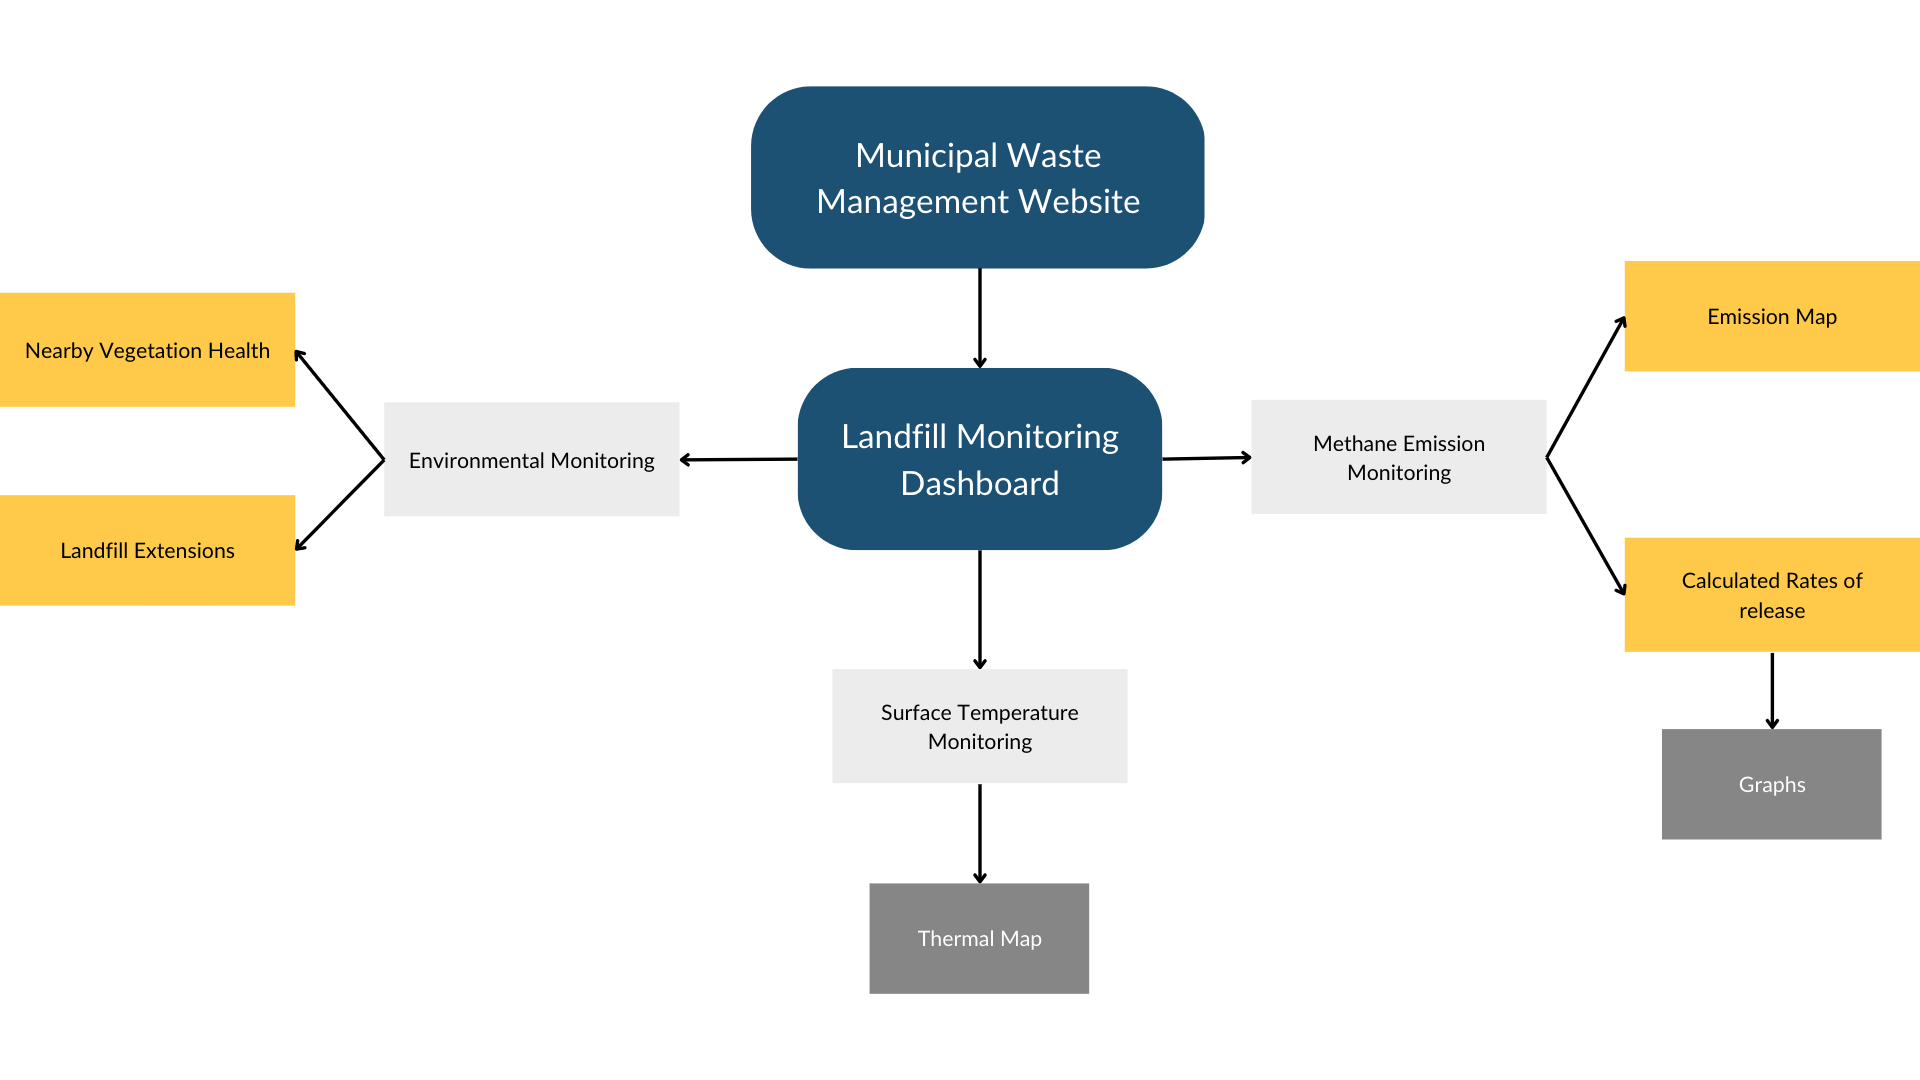
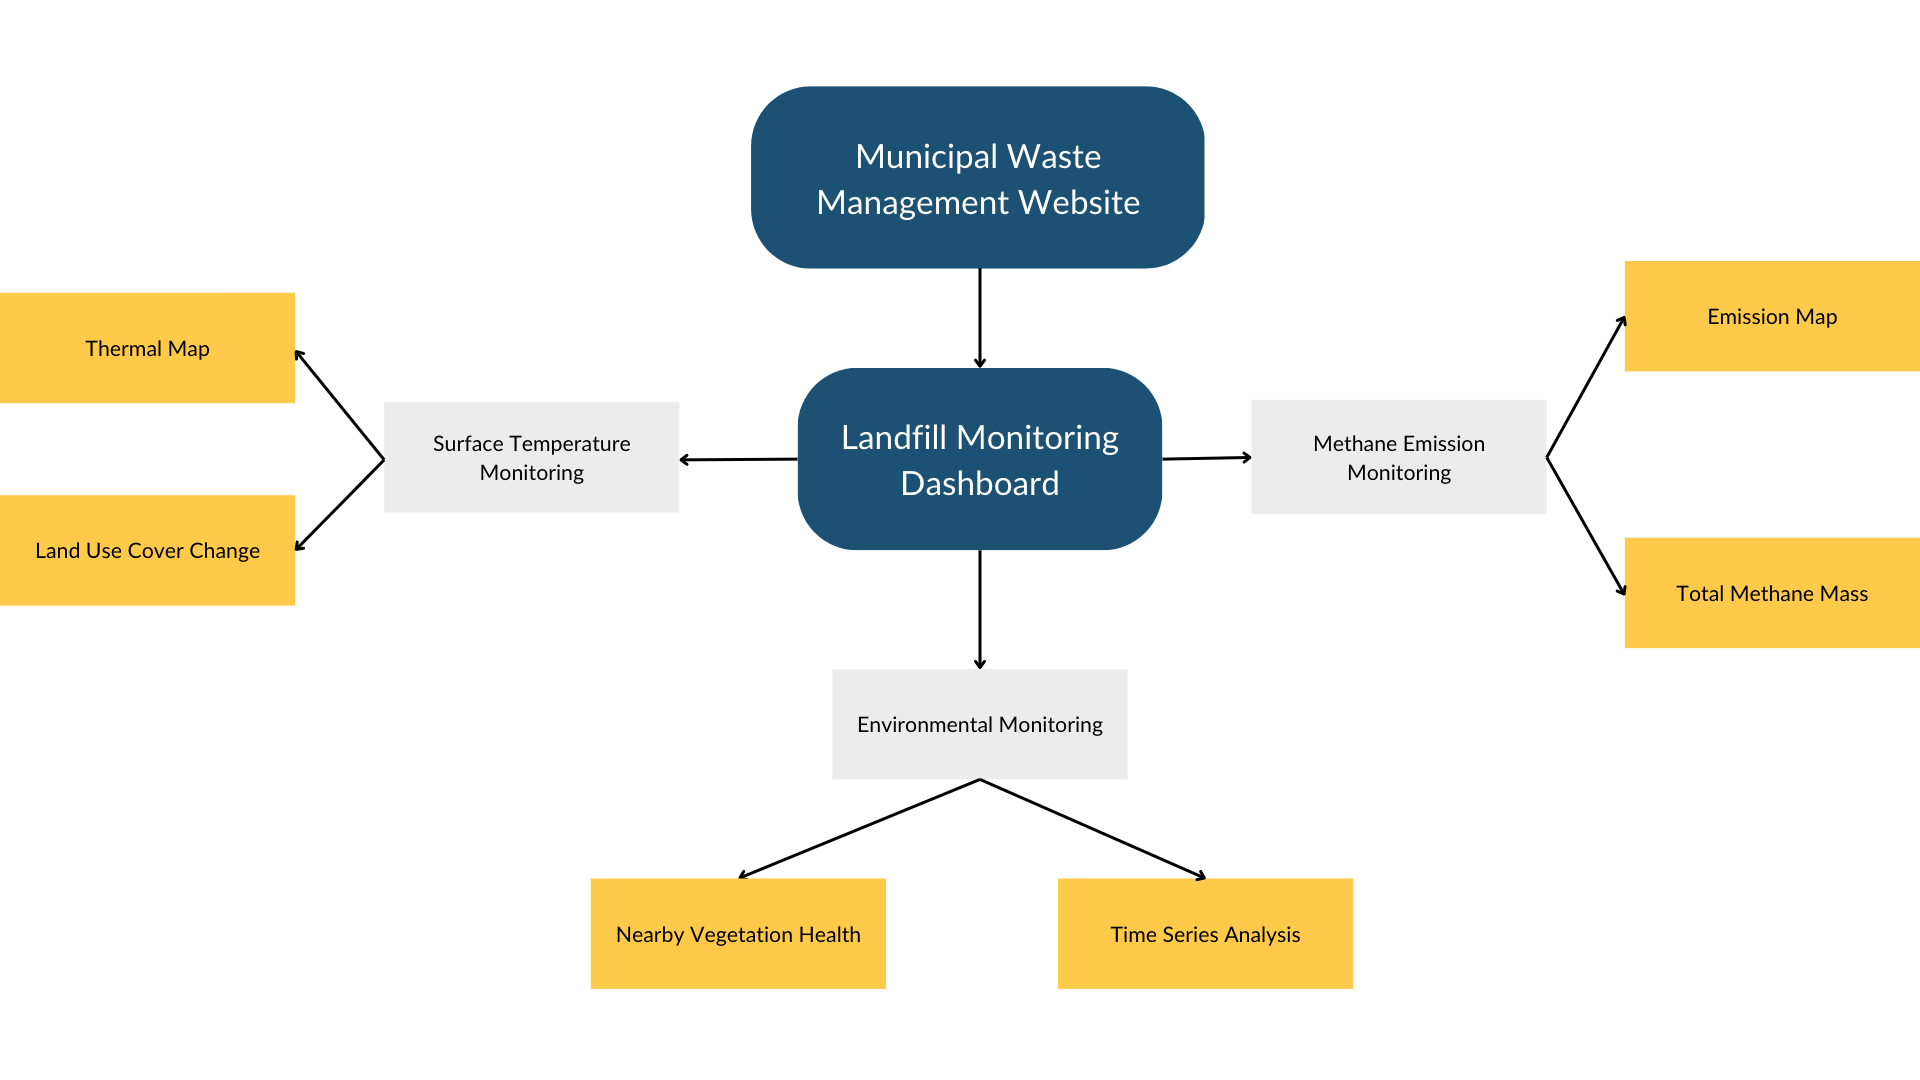
update

diff --git a/index.html b/index.html
@@ -46,19 +46,6 @@ class: center middle
 
 
 
-
-```
-## Warning: package 'countdown' was built under R version 4.2.2
-```
-
-```
-## Warning: package 'xaringanExtra' was built under R version 4.2.2
-```
-
-```
-## Warning: package 'knitr' was built under R version 4.2.2
-```
-
 <style>.xe__progress-bar__container {
   bottom:0;
   opacity: 1;
@@ -177,7 +164,7 @@ Source: &lt;a href=" https://sipsn.menlhk.go.id/sipsn/public/data/komposisi"&gt;
 .panelset[
 .panel[.panel-name[Policies]
 &lt;img src="img/policies.png" width="150%"/&gt;
-.left[Ploicy Ref: &lt;a href="https://pdf.usaid.gov/pdf_docs/PA00XWPP.pdf"&gt;Policies&lt;/a&gt;;&lt;a href="https://www.ilo.org/dyn/natlex/natlex4.detail?p_lang=en&amp;p_isn=84427&amp;p_country=IDN&amp;p_count=611"&gt;WasteLaw2008&lt;/a&gt;;&lt;a href="https://humanrightspapua.org/wp-content/uploads/2021/03/images_docs_Indonesian_Law_32-2009_Environment.pdf "&gt;LawEPM2009&lt;/a&gt;;&lt;a href="https://www.global-regulation.com/translation/indonesia/7208771/government-regulation-number-81-in-2012.html "&gt;MHHW2012&lt;/a&gt;;&lt;a href="http://www.vertic.org/media/National%20Legislation/Indonesia/ID_Regulation_Waste_19_1994.pdf"&gt;RHWM&lt;/a&gt;;&lt;a href="https://faolex.fao.org/docs/pdf/ins137639.pdf "&gt;PRT2013&lt;/a&gt;;&lt;a href="https://www.acccrn.net/sites/default/files/publication/attach/ran-api_english_translation.pdf "&gt;RANAPI2015&lt;/a&gt;;&lt;a href="https://kkp.go.id/an-component/media/upload-gambar-pendukung/djprl/P4K/Pencemaran%20Laut/Marine%20Debris/03.%20Perpres%20Nomor%2097%20Tahun%202017%20-%20Jakstranas.pdf"&gt;NPM&lt;/a&gt;;&lt;a href="https://wedocs.unep.org/bitstream/handle/20.500.11822/32898/NPWRSI.pdf?sequence=1&amp;isAllowed=y "&gt;NPWR2020&lt;/a&gt;;&lt;a href="https://drive.esdm.go.id/wl/?id=NMWtlg7uDxwXTf1bDxgrren7d8x6y5Iu&amp;mode=list&amp;download=1 "&gt;WE&lt;/a&gt;;&lt;a href="https://unfccc.int/sites/default/files/NDC/2022-09/23.09.2022_Enhanced%20NDC%20Indonesia.pdf "&gt;ENDC2022&lt;/a&gt;;&lt;a href="https://www.basel.int/Portals/4/Basel%20Convention/docs/text/BaselConventionText-e.pdf "&gt;Basel2005&lt;/a&gt;;&lt;a href="https://jdih.kemendag.go.id/backendx/image/regulasi/22200711_Permendag_No._31_tahun_2016.pdf"&gt;wasteImport&lt;/a&gt;;&lt;a href="https://documents1.worldbank.org/curated/en/781051510608417715/Environmental-and-social-management-framework.pdf"&gt;SWMS2019&lt;/a&gt;;&lt;a href="https://drive.google.com/file/d/16WhKUeXjd7LnpiVJADhFtye8w-4G9aHj/view"&gt;MoEF2019&lt;/a&gt;; &lt;a href="https://www.wwf.id/upload/2023/03/WWF-EPR-Guideline-2022-ENG-final.pdf"&gt;EPR2015&lt;/a&gt; 
+.left[Policy Ref: &lt;a href="https://pdf.usaid.gov/pdf_docs/PA00XWPP.pdf"&gt;Policies&lt;/a&gt;;&lt;a href="https://www.ilo.org/dyn/natlex/natlex4.detail?p_lang=en&amp;p_isn=84427&amp;p_country=IDN&amp;p_count=611"&gt;WasteLaw2008&lt;/a&gt;;&lt;a href="https://humanrightspapua.org/wp-content/uploads/2021/03/images_docs_Indonesian_Law_32-2009_Environment.pdf "&gt;LawEPM2009&lt;/a&gt;;&lt;a href="https://www.global-regulation.com/translation/indonesia/7208771/government-regulation-number-81-in-2012.html "&gt;MHHW2012&lt;/a&gt;;&lt;a href="http://www.vertic.org/media/National%20Legislation/Indonesia/ID_Regulation_Waste_19_1994.pdf"&gt;RHWM&lt;/a&gt;;&lt;a href="https://faolex.fao.org/docs/pdf/ins137639.pdf "&gt;PRT2013&lt;/a&gt;;&lt;a href="https://www.acccrn.net/sites/default/files/publication/attach/ran-api_english_translation.pdf "&gt;RANAPI2015&lt;/a&gt;;&lt;a href="https://kkp.go.id/an-component/media/upload-gambar-pendukung/djprl/P4K/Pencemaran%20Laut/Marine%20Debris/03.%20Perpres%20Nomor%2097%20Tahun%202017%20-%20Jakstranas.pdf"&gt;NPM&lt;/a&gt;;&lt;a href="https://wedocs.unep.org/bitstream/handle/20.500.11822/32898/NPWRSI.pdf?sequence=1&amp;isAllowed=y "&gt;NPWR2020&lt;/a&gt;;&lt;a href="https://drive.esdm.go.id/wl/?id=NMWtlg7uDxwXTf1bDxgrren7d8x6y5Iu&amp;mode=list&amp;download=1 "&gt;WE&lt;/a&gt;;&lt;a href="https://unfccc.int/sites/default/files/NDC/2022-09/23.09.2022_Enhanced%20NDC%20Indonesia.pdf "&gt;ENDC2022&lt;/a&gt;;&lt;a href="https://www.basel.int/Portals/4/Basel%20Convention/docs/text/BaselConventionText-e.pdf "&gt;Basel2005&lt;/a&gt;;&lt;a href="https://jdih.kemendag.go.id/backendx/image/regulasi/22200711_Permendag_No._31_tahun_2016.pdf"&gt;wasteImport&lt;/a&gt;;&lt;a href="https://documents1.worldbank.org/curated/en/781051510608417715/Environmental-and-social-management-framework.pdf"&gt;SWMS2019&lt;/a&gt;;&lt;a href="https://drive.google.com/file/d/16WhKUeXjd7LnpiVJADhFtye8w-4G9aHj/view"&gt;MoEF2019&lt;/a&gt;; &lt;a href="https://www.wwf.id/upload/2023/03/WWF-EPR-Guideline-2022-ENG-final.pdf"&gt;EPR2015&lt;/a&gt; 
 ]
 
 ]
@@ -280,7 +267,7 @@ landfill without gas recovery infrastructure
 .pull-center[
 
 
-Use Remote sensing as a solution to measure emissions, surface temperature and surrounding vegetation in landfill sites. 
+Use Remote sensing as a solution to improve ADIPURA database monitoring system.
 
 
 ]
@@ -356,8 +343,10 @@ filtered by methane precision, SWIR cloud fraction, aerosol optical depth &amp; 
 ]
 
 .pull-right[
-![Example of Emission](img/methane_tropomi.JPG)]
-![Example of Emission 2](img/methane_ghg.JPG)]
+
+&lt;img src="img/methane_tropomi.JPG" width="50%" style="display: block; margin: auto;" /&gt;
+
+&lt;img src="img/methane_ghg.JPG" width="50%" style="display: block; margin: auto;" /&gt;
 [Source: Maasakkers et al., 2022](https://www.science.org/doi/10.1126/sciadv.abn9683)
 ]
 ---
@@ -383,14 +372,13 @@ Apply scale factor (Kelvin to Celcius)
 ]
 
 .pull-right[
-![Example of LST surrounding landfill](img/lst.JPG)]
-![Example of LC change](img/lc.JPG)]
+
+&lt;img src="img/lst.JPG" width="60%" style="display: block; margin: auto;" /&gt;
+
+&lt;img src="img/lc.JPG" width="60%" style="display: block; margin: auto;" /&gt;
+[Source: Hanami et al., 2022](https://iopscience.iop.org/article/10.1088/1755-1315/1117/1/012055/meta)
 ]
-[Source: Hanami et al., 2022](https://iopscience.iop.org/article/10.1088/1755-1315/1117/1/012055/meta)
----
-## Surface Temperature
-![Methodology Flowchart](img/st_flowchart.JPG)]
-[Source: Hanami et al., 2022](https://iopscience.iop.org/article/10.1088/1755-1315/1117/1/012055/meta)
+
 ---
 ## Environmental Monitoring
 .pull-left[
@@ -412,9 +400,12 @@ Apply scale factor (Kelvin to Celcius)
 ]
 
 .pull-right[
-![Example of NDVI analysis](img/ndvi.JPG)]
-![Example of SAVI analysis](img/savi.JPG)]
-![Example of MSAVI analysis](img/msavi.JPG)]
+
+&lt;img src="img/ndvi.JPG" width="40%" style="display: block; margin: auto;" /&gt;
+
+&lt;img src="img/savi.JPG" width="40%" style="display: block; margin: auto;" /&gt;
+
+&lt;img src="img/msavi.JPG" width="40%" style="display: block; margin: auto;" /&gt;
 [Source: Sarker et al., 2022](https://www.banglajol.info/index.php/JES/article/view/57485)
 ]
 ---
@@ -501,11 +492,9 @@ The output of this project includes a map of methane emissions from the Bantarge
 
 .panel[.panel-name[Limitations]
 
-1. **Limited availability of satellite imagery**&lt;br&gt;The project heavily relies on the availability of satellite imagery to monitor methane emissions from the landfill. However, cloud cover and other atmospheric conditions can impact the quality and availability of satellite imagery, which can limit the accuracy of the methane emission estimates.
+1. **Temporal resolution**&lt;br&gt;The project relies on satellite imagery with limited temporal resolution. Frequent updates are needed to accurately monitor methane emissions from landfills, and more frequent satellite imagery could provide more accurate and up-to-date estimates.
 
-2. **Limited temporal resolution**&lt;br&gt;The project relies on satellite imagery with limited temporal resolution. Frequent updates are needed to accurately monitor methane emissions from landfills, and more frequent satellite imagery could provide more accurate and up-to-date estimates.
-
-3. **Limited spatial resolution**&lt;br&gt;The spatial resolution of satellite imagery can also limit the accuracy of methane emission estimates, especially in cases where methane emissions are highly localized. Other resources such as aerial imagery which has very high spatial resolution can be added in the future works.
+3. **Additional data for validation**&lt;br&gt;Ground monitoring tools and airborne imagery can help validate the methane emission.
 
 ]
 
@@ -557,10 +546,10 @@ class: inverse center middle
 
 ]
 
-.panel[.panel-name[**Value for Money**]
+.panel[.panel-name[**Budget**]
 
-In this project we will use open source software and free data. So our budget will be **£278,094** for human resources and **£5,000** for one month capacity building. So the total budget for our project is **£283,094**
-&lt;img src="img/cost.png" width="80%" style="display: block; margin: auto;" /&gt;
+In this project we will use open source software and free data (except GHGSat-D.  So the total budget for our project is:
+&lt;img src="img/cost.png" width="50%" style="display: block; margin: auto;" /&gt;
 
 ]
 ]
@@ -652,9 +641,23 @@ class: inverse center middle
 
 .panel[.panel-name[**Return on Investment**]
 
+Assumption:&lt;br&gt;
+1. Assume a conservative estimate of a 20% reduction in methane emissions due to the implementation of this project&lt;br&gt;
+2. According to a study by the Environmental Defense Fund, the global social cost of methane emissions is estimated to be $1,050 per ton of methane in 2020. Let's convert this to GBP using an exchange rate of 1 USD = 0.73 GBP, which gives us a social cost of methane emissions of approximately 768 GBP per ton.&lt;br&gt;
+3. Assume that the current methane emissions at the landfill are 20,000 tons per year.&lt;br&gt;
+4. Due to the implementation of this project would result in a reduction of 4,000 tons of methane emissions per year.&lt;br&gt;
+5. The value of the reduced methane emissions can be calculated by multiplying the reduction in emissions (4,000 tons per year) by the social cost of methane emissions (768 GBP per ton). This gives us a value of 3,072,000 GBP per year.&lt;br&gt;
+6. The total investment for this project is 500,000 GBP. Let's assume a project lifespan of 5 years. The total return on investment (ROI) for the project can be calculated as follows:&lt;br&gt;
+ROI = (Value of Reduced Methane Emissions * Project Lifespan) - Project Cost ROI 
+ROI = (3,072,000 GBP/year * 5 years) - 300,000 GBP ROI = 13,560,000 GBP
 
 ]
 ]
+
+---
+class: inverse center middle
+
+Thank you
     </textarea>
 <style data-target="print-only">@media screen {.remark-slide-container{display:block;}.remark-slide-scaler{box-shadow:none;}}</style>
 <script src="https://remarkjs.com/downloads/remark-latest.min.js"></script>
